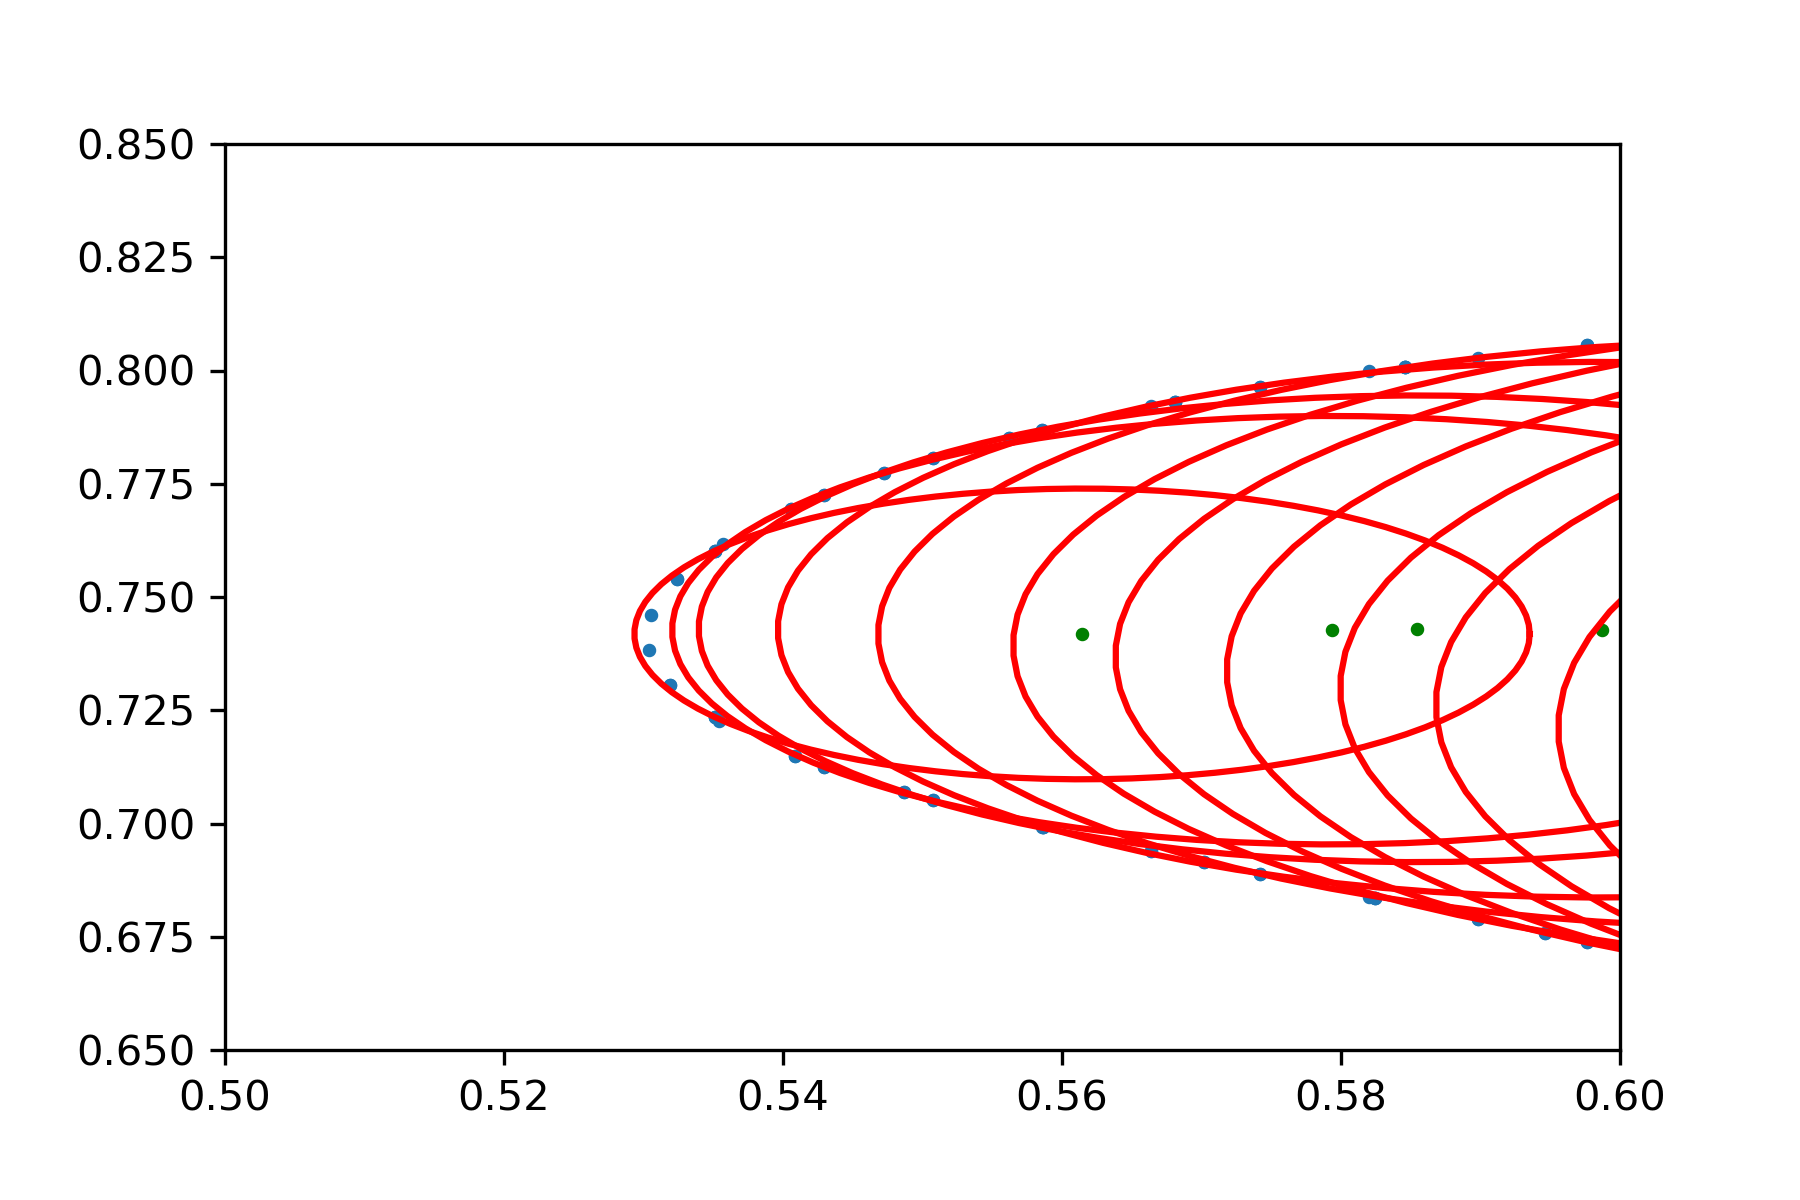
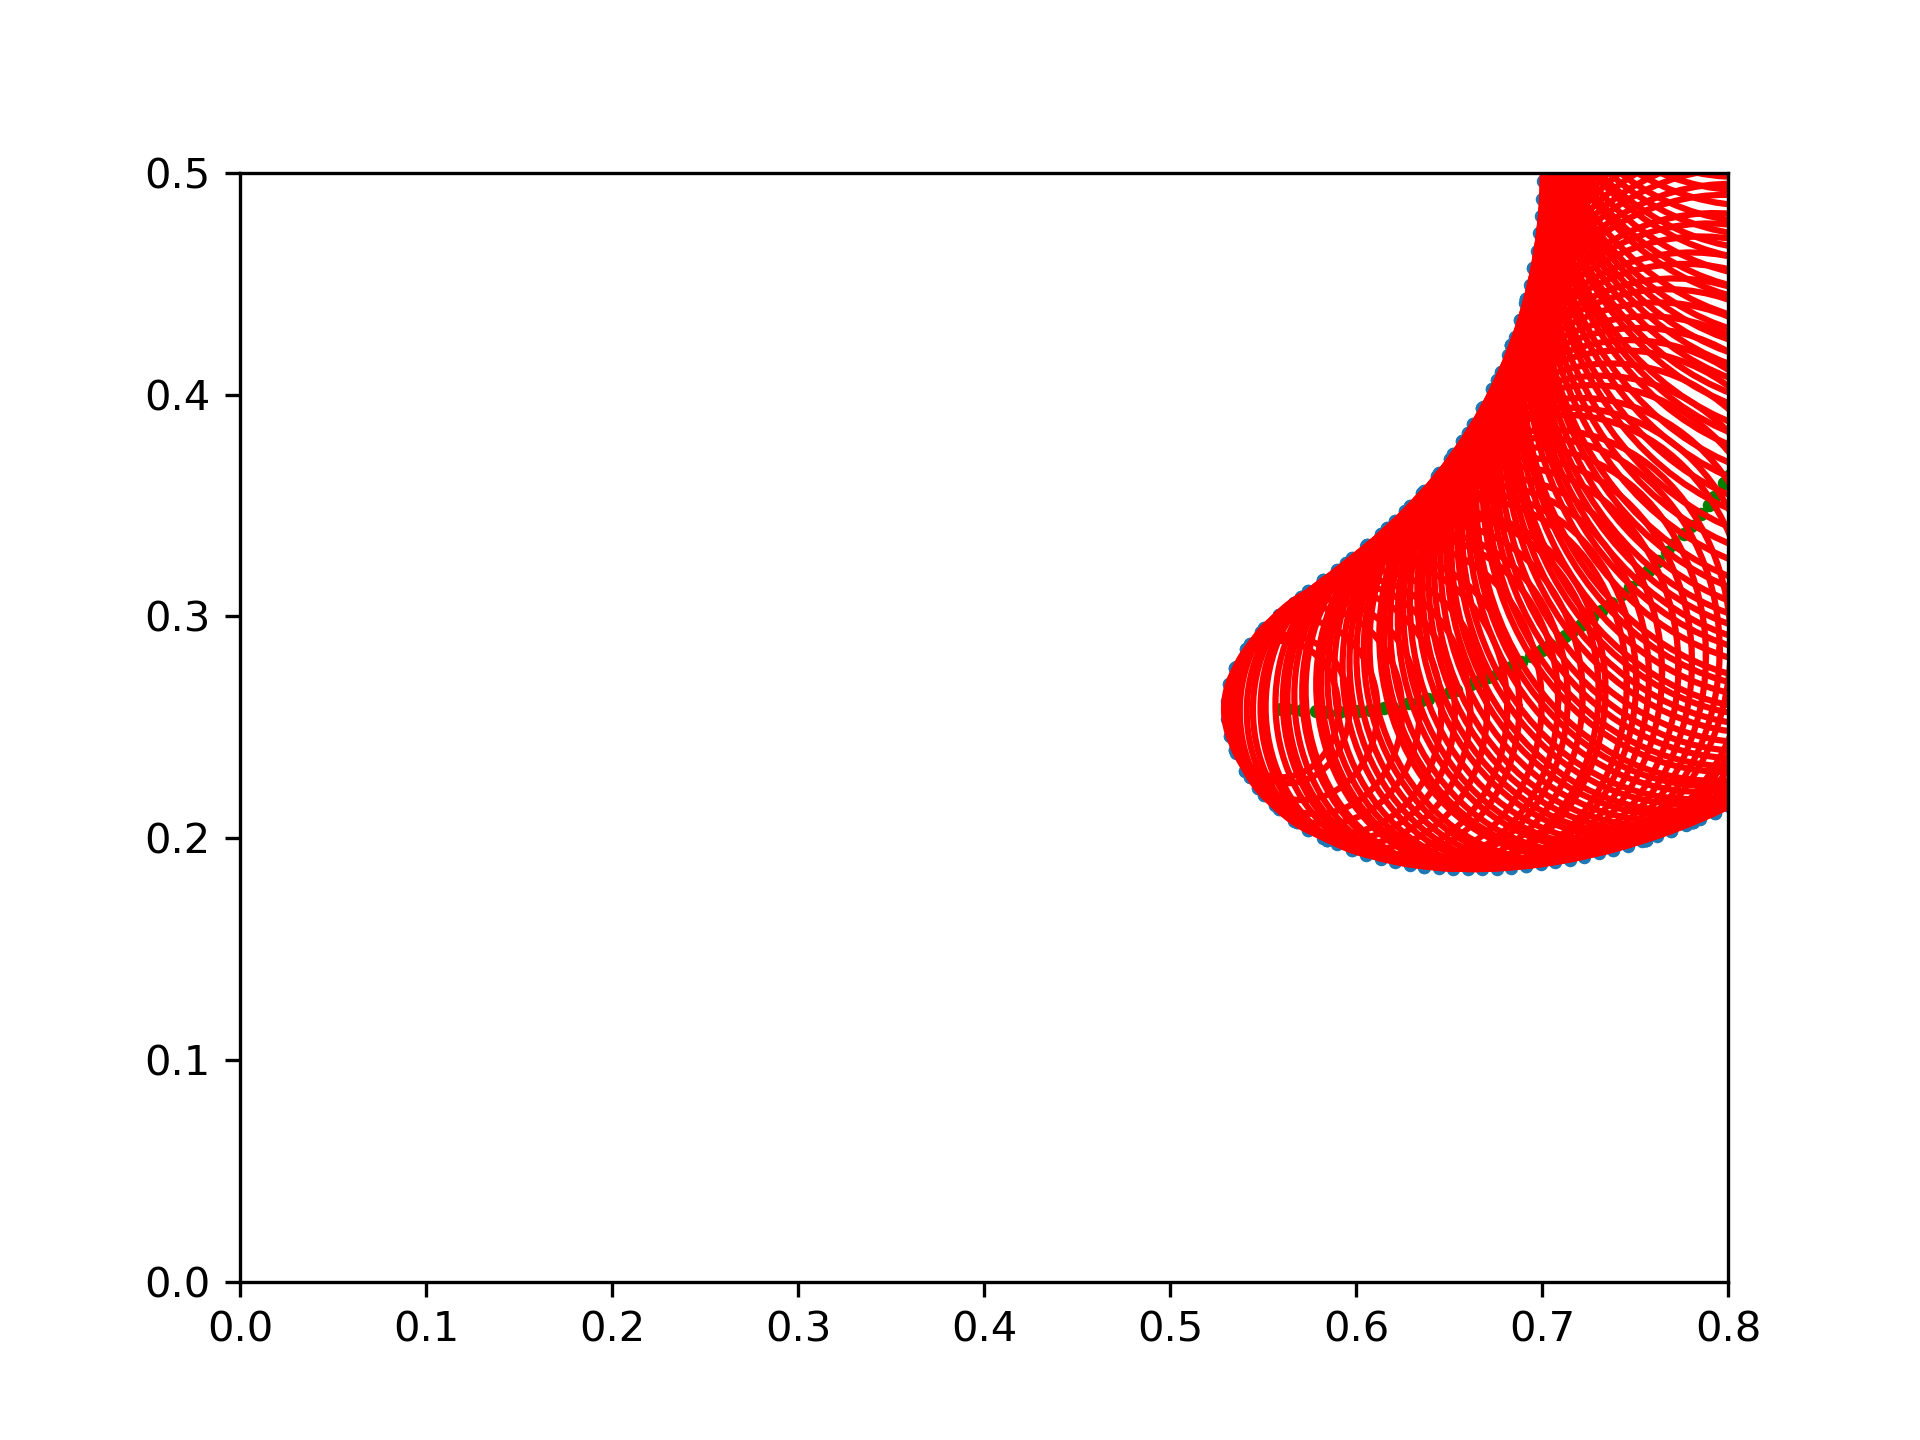
modified:   Main.py 	modified:   SkeleNet.py 	vof_points_norms.dat

diff --git a/SkeleNet.py b/SkeleNet.py
@@ -581,7 +581,7 @@ class SkeleNet:
             tot += getDistance(tpt,tree.getNearR(tpt,[]))
             i += 1
         self.threshDistance.append(tot / 3) 
-            
+        print('thresh',self.threshDistance)    
         ##START OF SOLVE
         index = 0
         guessr = 0
@@ -643,8 +643,9 @@ class SkeleNet:
                 #Checking for completeion
                 
                 #Convergence check
+                dist = getDistance(point,testp[leng])
                 if i > 1 and np.abs(tempr[leng] - tempr[leng - 1]) < self.threshDistance[key]:
-                    if tempr[leng] < (self.threshDistance[key] / 2) or getDistance(point, testp[leng]) < tempr[leng]:
+                    if np.abs(tempr[leng] - dist) < self.threshDistance[key] or tempr[leng] < (self.threshDistance[key] / 2) or getDistance(point, testp[leng]) < tempr[leng]:
                         self.SkelePoints[key].append(centerp[leng - 1])
                         self.SkeleRad[key].append(tempr[leng - 1])
                         #Show backstep in animation
@@ -931,8 +932,8 @@ class SkeleNet:
                 theta =  np.linspace(0,2*np.pi,100)
                 #This is the figure which can display the quadtree along with its nodes
                 plt.clf()
-                plt.xlim(0.5,0.6)
-                plt.ylim(0.65,0.85)
+                plt.xlim(0,.8)
+                plt.ylim(0,.5)
                 i = 0
                 tx = []
                 ty = []

diff --git a/Main.py b/Main.py
@@ -33,7 +33,7 @@ tstart = time.time()
 #/home/graham_garcia1/SkeletonV1/
 net = SkeleNet('interface_points_070000.dat')
 #net = SkeleNet('spiral.dat')
-#net = SkeleNet('vof_points_norm1.dat')
+#net = SkeleNet('vof_points_norms.dat')
 net.solve(False)
 net.plot([1,4])
 
